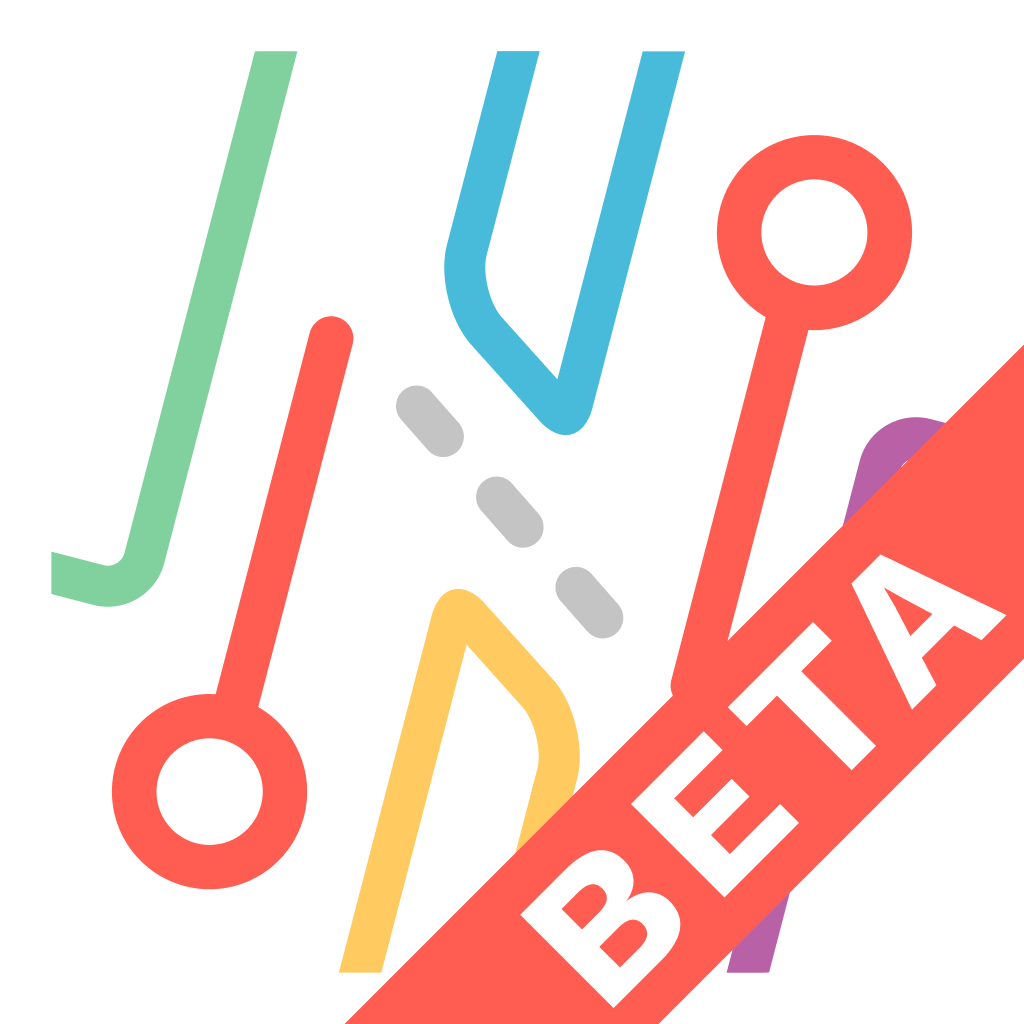
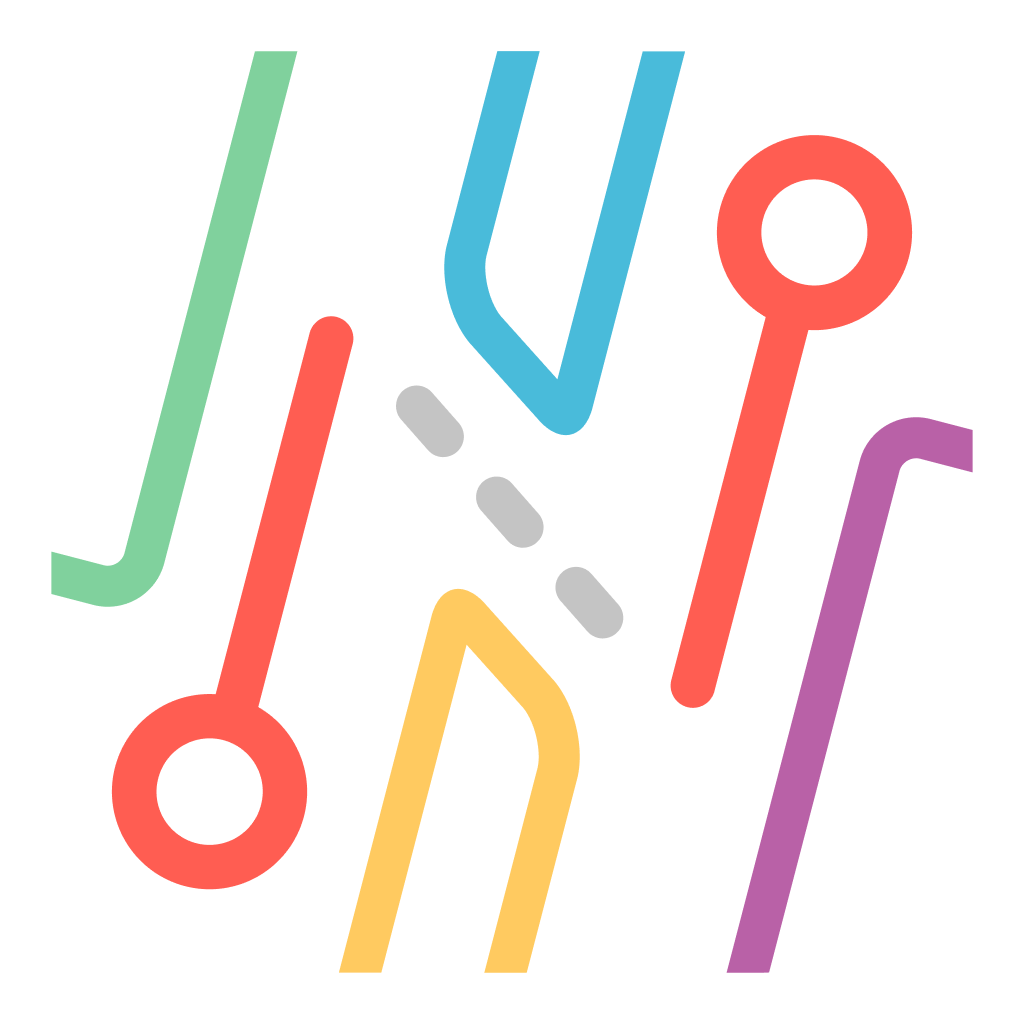
PLAN-330 change splash screen (without BETA tag)

Changed region(s): [[0.3438, 0.3438, 1.0, 1.0]]

diff --git a/translations/en.js b/translations/en.js
@@ -88,7 +88,7 @@ export default {
       version: 'Version',
       unknown: 'unknown',
       description:
-        'This is first version (Beta) of the MaaS (mobility as a service) application “Po meste”. We are gradually creating an open mobility platform for Bratislava, which will connect public transport with alternative mobility and offer green mobility in one place, from planning, comparison and driving in a few clicks. Walking around the city, by bike, scooter or tram? You will choose. ',
+        'Welcome the first version of MaaS (mobility as a service) app Po meste. We are in the process of making a new open platform which is gonna connect public transport with alternative green mobility. Within a few clicks you can plan or compare your journey with all available means of transport. Bicycle, scooter, tramp or walk, choose your preferable way of transport!',
       contact: 'Contact',
       createdBy: 'Created thanks to',
       generalTermsAndConditions: 'General terms and conditions',
@@ -101,14 +101,9 @@ export default {
         question1: {
           question: 'What is app po meste?',
           answer:
-            'This is first version (Beta) of the MaaS (mobility as a service) application “Po meste”. We are gradually creating an open mobility platform for Bratislava, which will connect public transport with alternative mobility and offer green mobility in one place, from planning, comparison and driving in a few clicks. Walking around the city, by bike, scooter or tram? You will choose.',
+            'Welcome the first version of MaaS (mobility as a service) app Po meste. We are in the process of making a new open platform which is gonna connect public transport with alternative green mobility. Within a few clicks you can plan or compare your journey with all available means of transport. Bicycle, scooter, tramp or walk, choose your preferable way of transport!',
         },
         question2: {
-          question: 'What does beta version mean?',
-          answer:
-            'The beta version is in generall a temporary version of an application that is constantly evolving. The goal of the Beta version is to test the functioning of all functionalities in a real environment and gradually fine-tune the application for the best user experience.',
-        },
-        question3: {
           question: 'Why are there only sms tickets?',
           answer:
             'Implementing the purchase of electronic tickets is one of the most complicated functionalities. Its deployment is not yet complete. In the meantime, we have incorporated into the application at least the possibility of purchasing SMS tickets.',

diff --git a/translations/sk.js b/translations/sk.js
@@ -88,7 +88,7 @@ export default {
       version: 'Verzia',
       unknown: 'neznáma',
       description:
-        'Pred Vami sa nachádza prvá verzia (Beta) MaaS (mobilita ako služba) aplikácie Po meste.  Pre Bratislavu postupne vytvárame otvorenú platformu, ktorá prepojí MHD s alternatívnou mobilitou a ponúkne na jednom mieste zelenú mobilitu od plánovania, porovnania a jazdy na pár klikov. Po meste peši, bicyklom, kolobežkou alebo električkou ? Je to na Vás.',
+        'Pred Vami sa nachádza prvá verzia MaaS (mobilita ako služba) aplikácie Po meste.  Pre Bratislavu postupne vytvárame otvorenú platformu, ktorá prepojí MHD s alternatívnou mobilitou a ponúkne na jednom mieste zelenú mobilitu od plánovania, porovnania a jazdy na pár klikov. Po meste peši, bicyklom, kolobežkou alebo električkou ? Je to na Vás.',
       contact: 'Kontakt',
       createdBy: 'Vytvorené vďaka',
       generalTermsAndConditions: 'Všeobecné obchodné podmienky',
@@ -101,14 +101,9 @@ export default {
         question1: {
           question: 'Čo je aplikácia po meste?',
           answer:
-            'Pred Vami sa nachádza prvá verzia (Beta) MaaS (mobilita ako služba) aplikácie Po meste. Pre Bratislavu postupne vytvárame otvorenú platformu, ktorá prepojí MHD s alternatívnou mobilitou a ponúkne na jednom mieste zelenú mobilitu od plánovania, porovnania a jazdy na pár klikov. Po meste peši, bicyklom, kolobežkou alebo električkou ? Je to na Vás.',
+            'Pred Vami sa nachádza prvá verzia MaaS (mobilita ako služba) aplikácie Po meste. Pre Bratislavu postupne vytvárame otvorenú platformu, ktorá prepojí MHD s alternatívnou mobilitou a ponúkne na jednom mieste zelenú mobilitu od plánovania, porovnania a jazdy na pár klikov. Po meste peši, bicyklom, kolobežkou alebo električkou ? Je to na Vás.',
         },
         question2: {
-          question: 'Čo znamená beta verzia?',
-          answer:
-            'Beta verzia vo všeobecnosti predstavuje dočasnú verziu aplikácie, ktorá sa priebežne vyvíja. Cieľom Beta verzie je v reálnom prostredí otestovať fungovanie všetkých funkcionalít a postupne doladiť aplikáciu pre najlepšiu spokojnosť používateľov.',
-        },
-        question3: {
           question: 'Prečo su na výber len sms lístky?',
           answer:
             'Implementácia nákupu elektronických lístkov patrí medzi najkomplikovanejšie funkcionality. Jej nasadenie nie je v tomto momente ešte dokončené. Medzičasom sme zakomponovali do aplikácie aspoň môžnosť nákupu SMS lístkov.',

diff --git a/screens/SettingsScreen/FAQScreen.tsx b/screens/SettingsScreen/FAQScreen.tsx
@@ -11,7 +11,7 @@ import { useBottomTabBarHeight } from '@react-navigation/bottom-tabs'
 export const FAQScreen = () => {
   const contactEmailAddress = Constants.manifest?.extra?.contactEmailAddress
 
-  const questions = new Array(3).fill(null).map((question, index) => {
+  const questions = new Array(2).fill(null).map((question, index) => {
     return {
       title: t(`screens.FAQScreen.questions.question${index + 1}.question`),
       body: t(`screens.FAQScreen.questions.question${index + 1}.answer`),
